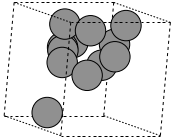
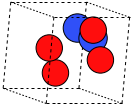
Tested alterations & parameters for tuning PerAtom EA.

diff --git a/Geopt/Tests/EAperAtom.py b/Geopt/Tests/EAperAtom.py
@@ -1,6 +1,8 @@
+from time import perf_counter
 from Tests.EAs import *
 
 def StartEA(elementsList):
+    startTime = perf_counter()
     # Set up initial values & placeholders
     # calc = SetUpVasp()
     calc = EMT()
@@ -23,7 +25,7 @@ def StartEA(elementsList):
 
     if __name__ == '__main__':
         with futures.ProcessPoolExecutor() as executor:
-            results = [executor.submit(Evolve, elementsList, boxSize, covRads, calc) for i in range(1)]
+            results = [executor.submit(Evolve, elementsList, boxSize, covRads, calc) for _ in range(6)]
             for f in futures.as_completed(results):
                 thisResult = f.result()
                 thisEnergy = thisResult[1]
@@ -34,8 +36,11 @@ def StartEA(elementsList):
         newMolecule = Atoms(bestMolecule, cell=boxSize)
         newMolecule.center()
         write("C:/Users/pipin/Documents/fyp/SophieCOMP3000/Geopt/Images/bestBuildUp.png", newMolecule,
-            rotation='10x,30y,0z')
+              rotation='10x,30y,0z')
         print("best energy:", overallBestEnergy)
+        stopTime = perf_counter()
+        elapsed = stopTime - startTime
+        print("Time taken =", elapsed, "seconds.")
 
 
 def Evolve(elementsList, boxSize, covRads, calc):
@@ -54,10 +59,10 @@ def Evolve(elementsList, boxSize, covRads, calc):
                 onlyH = False
         # Reset the energy test as it is likely to increase as more atoms are added.
         buildUpBestEnergy = 1000
+
         # Move each atom around every atom.
         buildUpBestEnergy, buildUpBestStructure = TestAllPlaces(buildUp, buildUpBestEnergy, buildUpBestStructure,
                                                                 onlyH, covRads, boxSize, calc)
-        buildUp = buildUpBestStructure
     print("this best energy:", buildUpBestEnergy)
 
     similarity = 0
@@ -88,10 +93,9 @@ def TestAllPlaces(buildUp, bestEnergy, bestStructure, onlyH, covRads, boxSize, c
             move = buildUp[eachAtomToMove]
             # Don't let H2 form and break the molecule apart
             # but if the molecule only contains H (eg. H2) we still need to do it.
-            if fixed.symbol != 'H' or onlyH is True:
+            if fixed.symbol != 'H' or move.symbol != 'H' or onlyH is True:
                 moveRange = covRads[eachAtomToMove] + covRads[eachAtomFixed]
-                # Multithread this bit?
-                for _ in range(4):
+                for _ in range(6):
                     MoveOneAtomTight(fixed, move, moveRange)
                     newMolecule = Atoms(buildUp, cell=boxSize)
                     newMolecule.center()
@@ -99,6 +103,8 @@ def TestAllPlaces(buildUp, bestEnergy, bestStructure, onlyH, covRads, boxSize, c
                     if currentEnergy < bestEnergy:
                         bestEnergy = currentEnergy
                         bestStructure = buildUp
+        # Revert to best structure at this point.
+        buildUp = bestStructure
     return bestEnergy, bestStructure
 
 
@@ -110,4 +116,5 @@ def MoveOneAtomTight(fixedAtom, atomToMove, moveRange):
     directions = (multis - 0.5) * high
     atomToMove.position = middle + directions
 
-StartEA(testC12)
+
+StartEA(testN2O4)

diff --git a/Geopt/Tests/EAs.py b/Geopt/Tests/EAs.py
@@ -153,8 +153,9 @@ testN2O4 = ['N', 'N', 'O', 'O', 'O', 'O']
 testBenzene = ['C', 'C', 'C', 'C', 'C', 'C', 'H', 'H', 'H', 'H', 'H', 'H']
 testAcetonitrile = ['C', 'H', 'H', 'H', 'C', 'N']
 testCO2 = ['C', 'O', 'O']
-testAlOx = ['Al', 'Al', 'O', 'O', 'O']
+testAlox = ['Al', 'Al', 'O', 'O', 'O']
 testEthane = ['C', 'H', 'H', 'H', 'C', 'H', 'H', 'H']
+testH2 = ['H', 'H']
 
 
 # How to remove old objects from memory:
